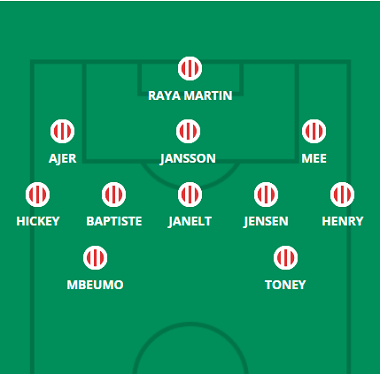
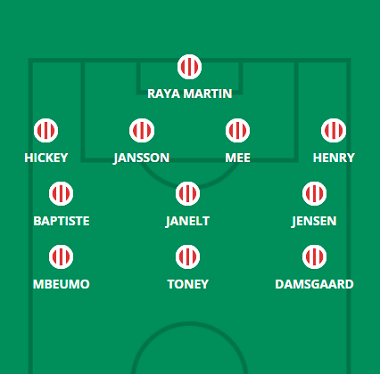
brentford e newcastle

diff --git a/brentford.html b/brentford.html
@@ -68,7 +68,7 @@
             <hgroup>
                 <h1> Provável Escalação</h1>
                 <h2 class="direita"> por FabioVascão </h2>
-                <h3 class="direita"> Atualizado em 29/Setembro/2022 </h3>
+                <h3 class="direita"> Atualizado em 30/Setembro/2022 </h3>
             </hgroup>
     
             <h2 class="time"> <img src="_fotos/_logos/logobrentford.png" />Brentford</h2>
@@ -77,10 +77,10 @@
                     <img src="_fotos/_dinamicas/brentford.png" />
                 </figure>
             </aside>
-                <div class="escalacao"><h2 class="titulo">Ultimas Notícias</h2> <h4><p>Mais informações em breve.</p></h4><br>
-                    <h4><strong>Jogadores fora da próxima partida:</strong> Forss, Norgaard, Pinnock e Thompson
+                <div class="escalacao"><h2 class="titulo">Ultimas Notícias</h2> <h4><p>Christian Norgaard (lesão no tendão de aquiles) está a "semanas" de um retorno e Keane Lewis-Potter (lesão no tornozelo/pé) não estará disponível para enfrentar o Bournemouth neste fim de semana, enquanto Thomas Frank sugeriu que o lesionado Ethan Pinnock (fora de ritmo) só seria considerado para começar se Brentford estivesse com poucos zagueiros. Certamente veremos o 3-5-2 - uma formação que Frank normalmente reserva para a oposição dos "seis grandes" - abandonado neste fim de semana, com uma viagem para o lado com a menor contagem de gols esperados na divisão permitindo um pouco mais de liberdade de ataque. Keane-Potter e Yoane Wissa têm compartilhado partidas nesta temporada e a ausência do primeiro aumenta as chances de Wissa de um recall da 9° Rodada, mas a contratação de verão Mikkel Damsgaard certamente deve estar se aproximando da escalação agora após seus problemas iniciais de condicionamento físico, principalmente depois partida pela sua seleção no domingo. Damsgaard é uma opção na posição de Wissa no flanco esquerdo ou como parte do meio-campo central de três homens, onde Vitaly Janelt e Mathias Jensen são os titulares mais prováveis no Vitality Stadium; Shandon Baptiste, Frank Onyeka e o titular da 8° Rodada, Josh Dasilva, também estarão competindo por um lugar na volância. Enquanto isso, Kristoffer Ajer pode ter que desistir como reserva de reserva, pois ainda não jogou pelo Brentford no meio-campo da zaga.</p></h4><br>
+                    <h4><strong>Jogadores fora da próxima partida:</strong> Forss, Lewis-Potter, Norgaard e Thompson
                     </h4><br><br>
-                    <h4><strong>Jogadores dúvidas:</strong></h4>
+                    <h4><strong>Jogadores dúvidas:</strong> Pinnock</h4>
                 </div> 
         </header>
         </article>

diff --git a/newcastle.html b/newcastle.html
@@ -68,7 +68,7 @@
             <hgroup>
                 <h1> Provável Escalação</h1>
                 <h2 class="direita"> por FabioVascão </h2>
-                <h3 class="direita"> Atualizado em 29/Setembro/2022 </h3>
+                <h3 class="direita"> Atualizado em 30/Setembro/2022 </h3>
             </hgroup>
     
             <h2 class="time"> <img src="_fotos/_logos/logonewcastle.png" />Newcastle</h2>
@@ -77,9 +77,9 @@
                     <img src="_fotos/_dinamicas/newcastle.png" />
                 </figure>
             </aside>
-                <div class="escalacao"><h2 class="titulo">Ultimas Notícias</h2> <h4><p>Mais informações em breve.</p></h4><br>
+                <div class="escalacao"><h2 class="titulo">Ultimas Notícias</h2> <h4><p>As notícias da equipe foram amplamente positivas na coletiva de imprensa de Eddie Howe, com Callum Wilson e Bruno Guimarães passando aptos para a viagem de Newcastle ao Fulham e a lesão muscular de Alexander Isak descrita como não muito grave por seu empresário. Isak quase certamente ficará de fora, mas o problema não “parece muito ruim”, de acordo com Eddie Howe, e o sueco já está correndo na grama. Allan Saint-Maximin (lesão na coxa) e Chris Wood (lesão na costela) enfrentam testes físicos tardios para ver se podem se envolver, enquanto o primeiro é descrito como "muito próximo" depois de um mês afastado. Wilson no lugar de Isak pode ser a única mudança para os seis primeiros, então, com Saint-Maximin provavelmente uma opção do banco, na melhor das hipóteses, mesmo que ele seja aprovado. Howe poderia alterar as coisas na parte de trás com Aleksandar Mitrovic em mente, no entanto, com Sven Botman e Jamaal Lascelles oferecendo mais no ar do que o titular habitual Fabian Schar no meio-campo. Karl Darlow (lesão no tornozelo), Emil Krafth (lesão no joelho) e Jonjo Shelvey (lesão na coxa) permanecem de fora.</p></h4><br>
                     <h4><strong>Jogadores fora da próxima partida:</strong> Darlow, Gayle, Krafth e Shelvey</h4><br><br>
-                    <h4><strong>Jogadores dúvidas:</strong> Bruno Guimarães, Saint Maximin e Wilson</h4>
+                    <h4><strong>Jogadores dúvidas:</strong> Isak, Saint Maximin e Wood</h4>
                 </div> 
         </header>
         </article>
